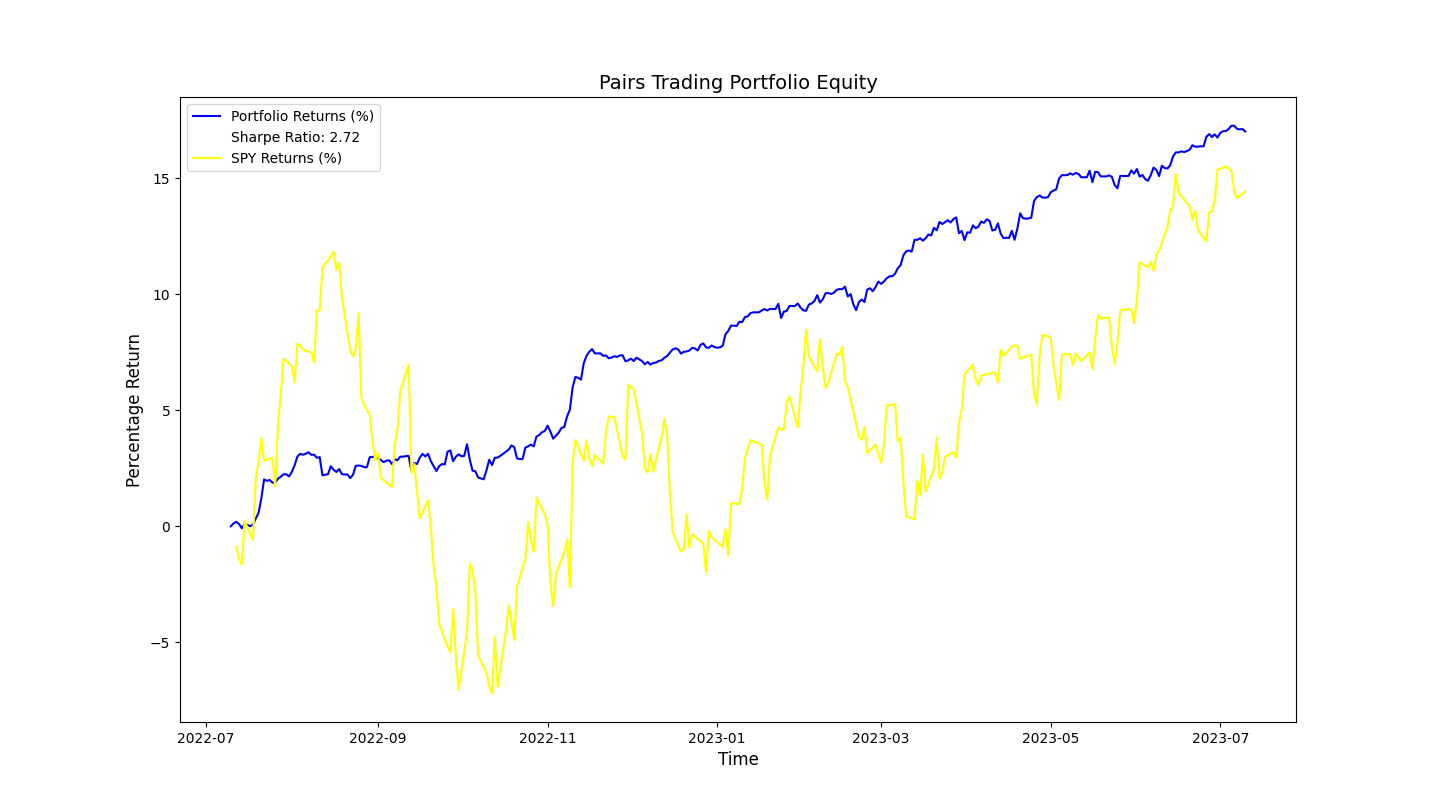
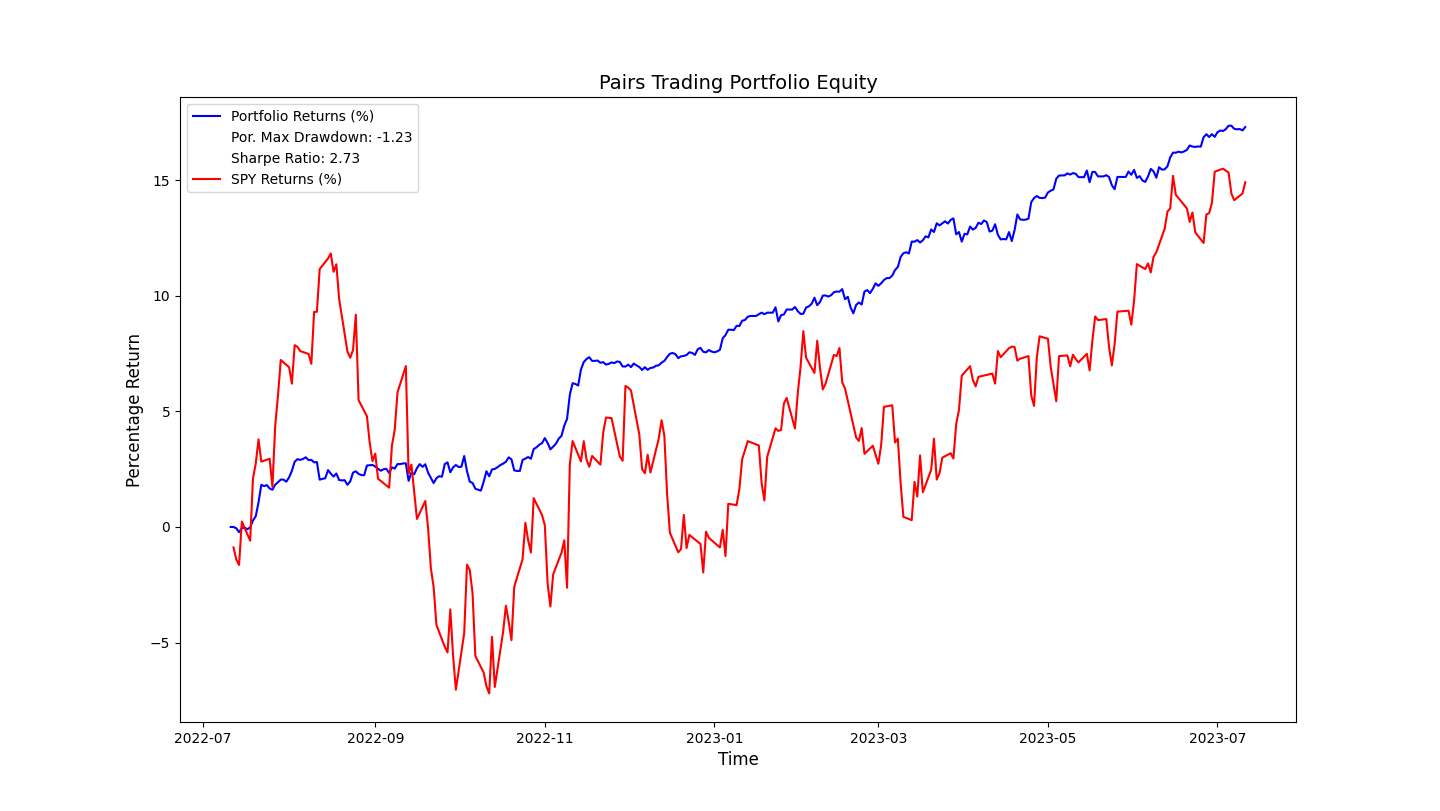
addition of portfolio max drawdown

diff --git a/pairs.py b/pairs.py
@@ -28,6 +28,17 @@ def calculate_portfolio_sharpe(returns, volatilities, risk_free_rate = 3):
     portfolio_sd = np.sqrt(np.dot(np.square(volatilities), np.square(weight_array)))
     return (portfolio_ret - risk_free_rate) / portfolio_sd
 
+def max_drawdown(cumulative_returns):
+    # Calculate the running maximum
+    running_max = np.maximum.accumulate(cumulative_returns)
+    running_max[running_max < 1] = 1
+    
+    # Calculate the drawdown
+    drawdown = cumulative_returns / running_max - 1
+    
+    # Return the minimum drawdown (i.e., maximum drawdown)
+    return drawdown.min()
+
 def plot_total_portfolio_ret(equity_curves, sharpe):
     equity_only_curves = [curve["Equity"] for curve in equity_curves]
     cumulative_equity_curve = pd.concat(equity_only_curves, axis=1)
@@ -42,14 +53,16 @@ def plot_total_portfolio_ret(equity_curves, sharpe):
             pct_return = ((new_equity_curve[column] / new_equity_curve[column].iloc[0]) - 1) * 100
         pct_returns[column] = pct_return
     cumulative_pct_returns = pct_returns.sum(axis=1) / len(new_equity_curve.columns)
+    max_draw = max_drawdown(cumulative_pct_returns)
     spy = getData("SPY", period="1y", interval="1d")["Close"]
     spy_daily_returns = spy.pct_change()
     spy_cum_daily_returns = (1 + spy_daily_returns).cumprod() - 1
     spy_cum_daily_returns.index = pd.to_datetime(spy_cum_daily_returns.index)  # Convert index to DatetimeIndex
     spy_cum_returns = spy_cum_daily_returns * 100
     plt.plot(cumulative_pct_returns, color="blue", label="Portfolio Returns (%)")
+    plt.plot([], [], ' ', label=f"Por. Max Drawdown: {max_draw:.2f}")
     plt.plot([], [], ' ', label=f"Sharpe Ratio: {sharpe:.2f}")
-    plt.plot(spy_cum_returns, color="yellow", label="SPY Returns (%)")
+    plt.plot(spy_cum_returns, color="red", label="SPY Returns (%)")
     plt.title('Pairs Trading Portfolio Equity', fontsize=14, color='black')
     plt.xlabel('Time', fontsize=12)
     plt.ylabel('Percentage Return', fontsize=12)
